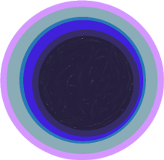
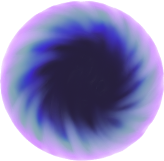
swapped out portal asset for the new one, tightened up portal and meteor hitboxes, added tropicBird

diff --git a/core/src/com/quokkabounce/game/states/PlayState.java b/core/src/com/quokkabounce/game/states/PlayState.java
@@ -1140,6 +1140,12 @@ public class PlayState extends State implements InputProcessor{
                         }
                     }
                     if (meteor.isStartFall()) {
+                        if (Intersector.overlaps(meteor.getMeteorCircle(), quokka.getQuokkaBounds())) {
+                            if (meteors.contains(meteor, true)) {
+                                gsm.set(new PlayState(gsm, world, level));
+                                break;
+                            }
+                        }
                         meteor.move(dt);
                         if (((meteor.getPosMeteor().x > clickPos.x) && (meteor.getPosMeteor().x < clickPos2.x)) || ((meteor.getPosMeteor().x < clickPos.x) && (meteor.getPosMeteor().x > clickPos2.x))) {
                             if (meteor.getMeteorBounds().contains(meteor.getPosMeteor().x, lineY(meteor.getPosMeteor().x))) {
@@ -1150,12 +1156,6 @@ public class PlayState extends State implements InputProcessor{
                             if (meteor.getMeteorBounds().contains(meteor.getPosMeteor().x + meteor.getTexture().getWidth(), lineY(meteor.getPosMeteor().x + meteor.getTexture().getWidth()))) {
                                 meteors.removeValue(meteor, true);
                                 meteor.dispose();
-                            }
-                        }
-                        if (meteor.collides(quokka.getQuokkaBounds())) {
-                            if (meteors.contains(meteor, true)) {
-                                gsm.set(new PlayState(gsm, world, level));
-                                break;
                             }
                         }
                     }
@@ -1204,7 +1204,7 @@ public class PlayState extends State implements InputProcessor{
                 }
                 boolean touchingPortal = false;
                 for(Obstacle portal : portals){
-                    if (portal.collides(quokka.getQuokkaBounds())) {
+                    if (Intersector.overlaps(portal.getObstacleCircle(), quokka.getQuokkaBounds())) {
                         touchingPortal = true;
                         if(!quokka.isTouchingPortal()) {
                             if (portals.indexOf(portal, true) % 2 == 0) {

diff --git a/core/src/com/quokkabounce/game/sprites/Meteor.java b/core/src/com/quokkabounce/game/sprites/Meteor.java
@@ -5,6 +5,7 @@ package com.quokkabounce.game.sprites;
  */
 
 import com.badlogic.gdx.graphics.Texture;
+import com.badlogic.gdx.math.Circle;
 import com.badlogic.gdx.math.Rectangle;
 import com.badlogic.gdx.math.Vector2;
 
@@ -17,6 +18,7 @@ public class Meteor {
     private Rectangle meteorBounds;
     private Texture meteorTexture;
     private Vector2 posMeteor, velMeteor, originalPos, originalVel, gravity;
+    private Circle meteorCircle;
     private boolean startFall;
 
     public Meteor(float x, float y, float firstVelX, float firstVelY){
@@ -27,6 +29,7 @@ public class Meteor {
         originalVel = new Vector2(firstVelX, firstVelY);
         meteorTexture = new Texture("meteor.png");
         meteorBounds = new Rectangle(posMeteor.x, posMeteor.y, meteorTexture.getWidth(), meteorTexture.getHeight());
+        meteorCircle = new Circle(posMeteor.x + meteorBounds.getWidth() / 2, posMeteor.y + meteorBounds.getWidth() / 2, meteorBounds.getWidth() / 2);
     }
 
     public Rectangle getMeteorBounds() {
@@ -35,6 +38,10 @@ public class Meteor {
 
     public Vector2 getPosMeteor() {
         return posMeteor;
+    }
+
+    public Circle getMeteorCircle() {
+        return meteorCircle;
     }
 
     public Texture getTexture() {
@@ -79,6 +86,7 @@ public class Meteor {
         posMeteor.add(velMeteor.x, velMeteor.y);
         velMeteor.scl(1/dt);
         meteorBounds.setPosition(posMeteor.x, posMeteor.y);
+        meteorCircle.setPosition(posMeteor.x + meteorBounds.getWidth() / 2, posMeteor.y + meteorBounds.getWidth() / 2);
     }
 
 }
